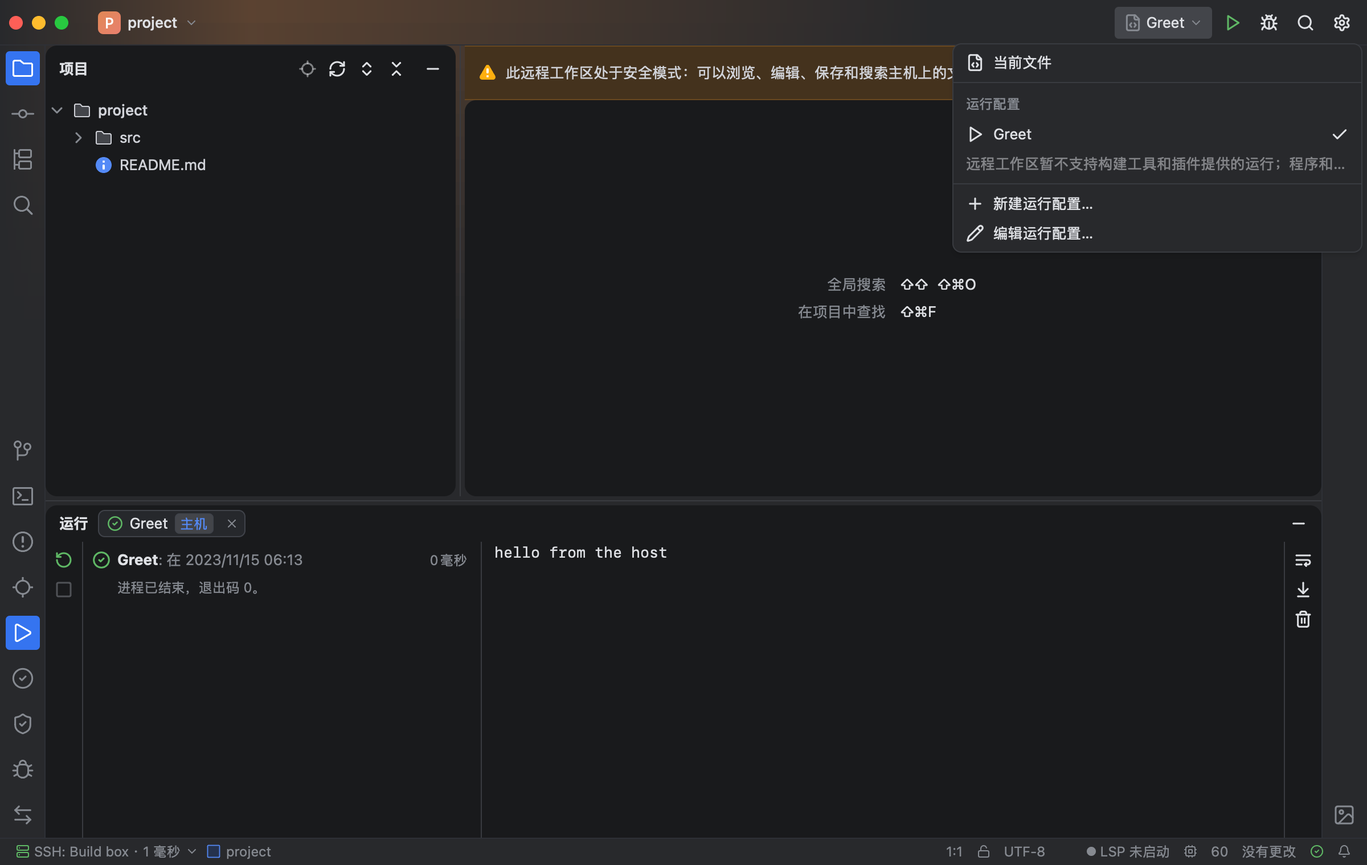
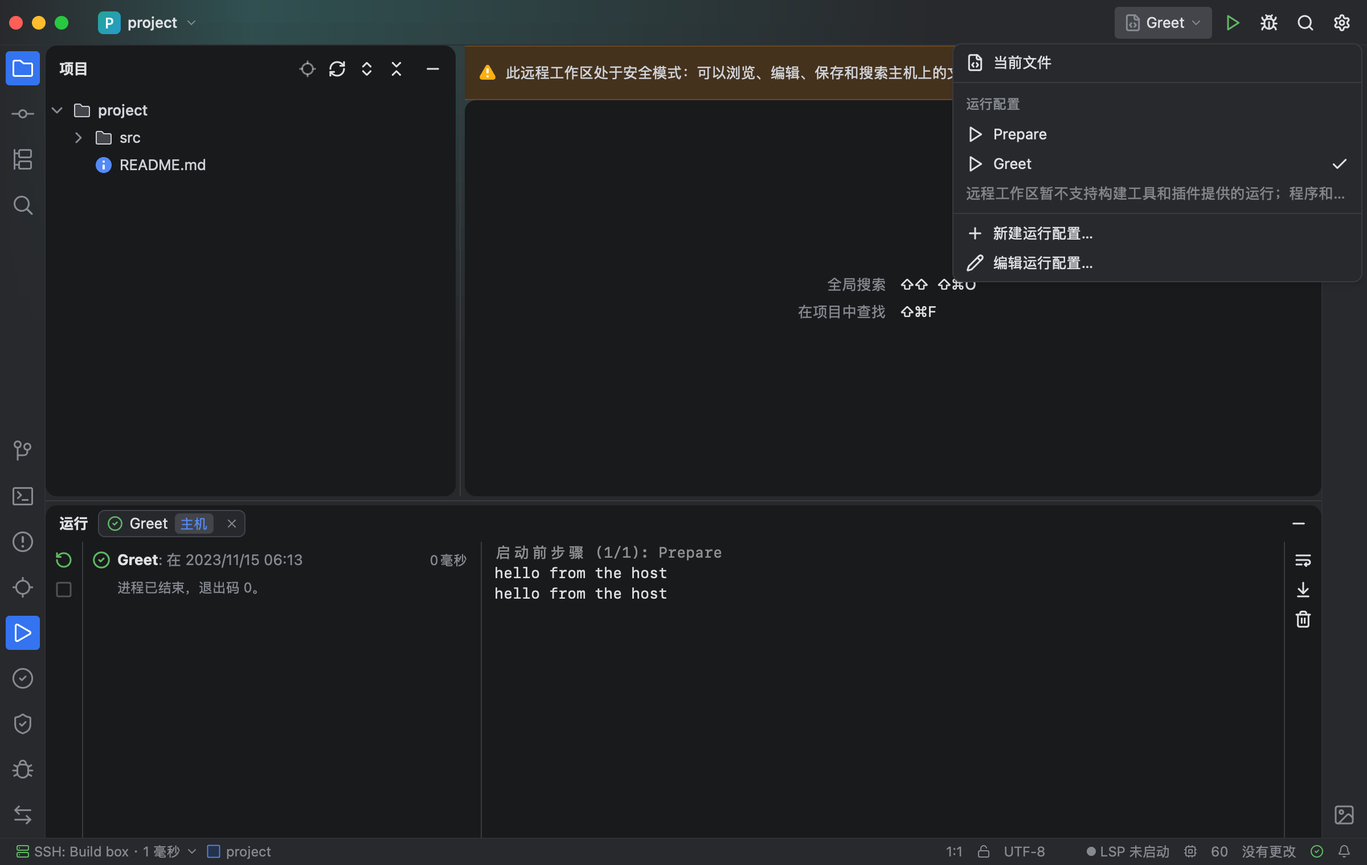
feat(desktop): 远程工作区在主机上依次运行执行前列表里的内置运行配置 (#2231)
执行前列表里引用的程序或脚本运行配置在主机上按顺序先运行，输出和步骤标题进同一个控制台；
步骤非零退出时说明步骤名和退出码，配置不启动；停止或超出准备时间先给步骤的主机进程发 SIGTERM。
只有列表里有插件任务时才说明暂不支持（R3）。

Changed region(s): [[0.6875, 0.1546, 0.9688, 0.3092], [0.0625, 0.0, 0.4062, 0.0928], [0.3438, 0.6184, 0.5312, 0.7112]]

diff --git a/desktop/internal/workbench/remote_run_test.go b/desktop/internal/workbench/remote_run_test.go
@@ -327,14 +327,17 @@ func TestRemoteWorkspaceRunEndsAsTheHostProcessEnds(t *testing.T) {
 }
 
 // A remote workspace refuses, with its reason, what it cannot run on the host yet: a
-// configuration with before-launch steps, a debug session and a program chosen through a
-// toolchain. None of them starts a host process.
+// configuration whose before-launch list names a plugin's task, a debug session and a program
+// chosen through a toolchain. None of them starts a host process.
 func TestRemoteWorkspaceRefusesRunsItCannotStartOnTheHost(t *testing.T) {
 	h, k, p, _ := openRemoteRunProject(t)
 	lang := h.app.language()
 
 	k.setRuns(func(r *remoteHostRuns) {
-		r.steps = []core.RunBeforeLaunchItem{{Name: "build"}}
+		r.steps = []core.RunBeforeLaunchItem{
+			{ConfigurationID: remoteTestRunConfiguration.ID, Name: "Prepare"},
+			{Task: &core.RunTaskReference{RunTypeKey: core.RunTypeKey{PluginID: "dev.example.build", BuildSystemID: "example", Type: "compile"}}, Name: "Compile"},
+		}
 	})
 	h.startRemoteRun(p, remoteTestRunConfiguration.ID)
 	refused := h.awaitRemoteRun(p, remoteTestRunConfiguration.Name, nil)
@@ -364,6 +367,85 @@ func TestRemoteWorkspaceRefusesRunsItCannotStartOnTheHost(t *testing.T) {
 	}
 	if opens, _, _, _, _ := k.hostRuns(); len(opens) != 0 {
 		t.Fatalf("the host started %d processes", len(opens))
+	}
+}
+
+// A remote workspace runs the before-launch steps that start another built-in run on its host,
+// in order and over the workspace's session, with their output and headers in the console of the
+// configuration that starts, which starts once every step exited with 0. Each step's temporary
+// folder is removed before the next starts. A step that exits with a code ends the start with
+// it, and stopping the start while a step runs asks the step's host process to end first.
+func TestRemoteWorkspaceRunsBeforeLaunchStepsOnTheHost(t *testing.T) {
+	previous := buildprocess.StopGrace()
+	t.Cleanup(func() { buildprocess.SetStopGrace(previous) })
+	// The window sets the stop time from the setting when it opens; the harness never opens one.
+	buildprocess.SetStopGrace(8 * time.Second)
+	h, k, p, logger := openRemoteRunProject(t)
+	lang := h.app.language()
+	k.setRuns(func(r *remoteHostRuns) {
+		r.steps = []core.RunBeforeLaunchItem{{ConfigurationID: remoteTestRunConfiguration.ID, Name: "Prepare"}}
+	})
+	h.startRemoteRun(p, remoteTestRunConfiguration.ID)
+	run := h.awaitRemoteRun(p, remoteTestRunConfiguration.Name, nil)
+	header := i18n.SharedFormat(lang, "desktop.runConfig.beforeLaunch.stepHeader", map[string]string{"index": "1", "count": "1", "name": "Prepare"})
+	console := run.output.all()
+	if run.outcome != runSucceeded || !strings.Contains(console, header) || strings.Count(console, "hello from the host") != 2 {
+		t.Fatalf("the run ended %v: %s; console:\n%s", run.outcome, run.summary, console)
+	}
+	opens, sessions, bases, removed, _ := k.hostRuns()
+	if len(opens) != 2 || opens[0].Label == nil || opens[0].Label.Name != "Prepare" || opens[1].Label == nil || opens[1].Label.Name != remoteTestRunConfiguration.Name {
+		t.Fatalf("the host started %d processes, want the step's and then the configuration's", len(opens))
+	}
+	for _, session := range sessions {
+		if session != p.remote.session {
+			t.Fatal("a process started over another session")
+		}
+	}
+	if len(bases) != 2 || len(removed) != 2 || opens[0].Cwd != remoteTestFolder+"/src" {
+		t.Fatalf("%d plans, %d temporary folders removed, step cwd matched %v", len(bases), len(removed), opens[0].Cwd == remoteTestFolder+"/src")
+	}
+
+	three := 3
+	k.setRuns(func(r *remoteHostRuns) { r.exit = core.RemoteProcessExit{ExitCode: &three} })
+	h.app.post(func(a *App) { p.closeRunSession(run.id) })
+	h.startRemoteRun(p, remoteTestRunConfiguration.ID)
+	failed := h.awaitRemoteRun(p, remoteTestRunConfiguration.Name, run)
+	exited := i18n.SharedFormat(lang, "desktop.runConfig.beforeLaunch.exited", map[string]string{"name": "Prepare", "code": "3"})
+	if failed.outcome == runSucceeded || !strings.Contains(failed.output.all(), exited) {
+		t.Fatalf("a step that exited with 3 ended the start %v; console:\n%s", failed.outcome, failed.output.all())
+	}
+	if opens, _, _, _, _ := k.hostRuns(); len(opens) != 3 {
+		t.Fatalf("the configuration started after its step failed: %d processes", len(opens))
+	}
+
+	ended := make(chan struct{})
+	k.setRuns(func(r *remoteHostRuns) { r.hold, r.signalled, r.ended = true, make(chan struct{}), ended })
+	h.app.post(func(a *App) { p.closeRunSession(failed.id) })
+	h.startRemoteRun(p, remoteTestRunConfiguration.ID)
+	h.await("the held step to start", func() bool {
+		opens, _, _, _, _ := k.hostRuns()
+		return len(opens) == 4
+	})
+	h.app.post(func(a *App) { a.stopOperation(p, p.build.runOf(configurationRunKey(remoteTestRunConfiguration.ID))) })
+	h.await("stopping the start to end the step's host process", func() bool {
+		select {
+		case <-ended:
+			return true
+		default:
+			return false
+		}
+	})
+	stopped := h.awaitRemoteRun(p, remoteTestRunConfiguration.Name, failed)
+	opens, _, _, removed, kills := k.hostRuns()
+	if len(kills) == 0 || kills[0] != "term" || len(opens) != 4 || len(removed) != 4 {
+		t.Fatalf("the stop sent %v; %d processes started, %d temporary folders removed", kills, len(opens), len(removed))
+	}
+	if stopped.outcome == runSucceeded {
+		t.Fatal("a stopped start ended as succeeded")
+	}
+	sessionKept(t, logger, p, p.remote.session)
+	if event := loggedAny(t, logger, remoteTestHost, remoteTestHome); event != "" {
+		t.Fatalf("logged the host or its paths: %s", event)
 	}
 }
 

diff --git a/desktop/internal/workbench/runconfig_before_launch.go b/desktop/internal/workbench/runconfig_before_launch.go
@@ -17,7 +17,6 @@ import (
 	"encoding/json"
 	"errors"
 	"fmt"
-	"os/exec"
 	"slices"
 
 	"github.com/1lck/Lithe-IDEA/desktop/internal/buildprocess"
@@ -73,9 +72,10 @@ func (a *App) runBeforeLaunch(p *project, op *buildOperation, id string, start f
 				start()
 				return
 			}
-			// A step runs a plugin's task or a process on this computer, which a remote
-			// workspace's files are not on.
-			if p.remote != nil {
+			// A remote workspace runs a step that starts another built-in run on its host. A
+			// plugin's task is planned by the plugin's backend on this computer, which reads no
+			// host files (#2231 §2, R3), so a list naming one does not start.
+			if p.remote != nil && slices.ContainsFunc(steps.Steps, func(step core.RunBeforeLaunchItem) bool { return step.Task != nil }) {
 				message := i18n.Shared(a.language(), "desktop.run.remote.beforeLaunch")
 				a.operationRejected("run_before_launch", "remote_workspace")
 				a.notifyError(message)
@@ -140,13 +140,14 @@ func (a *App) refuseBeforeLaunch(p *project, op *buildOperation, refusal *core.R
 // beforeLaunchRun is what the steps of one start take from the window thread: the project,
 // the kernel and language, the build messages and plugin directory a task's plan needs, and,
 // per step that runs a plugin's task, the detected instances of the build system that
-// declares it.
+// declares it. remote runs a remote workspace's steps on its host, nil for a local project.
 type beforeLaunchRun struct {
 	root, pluginRoot string
 	kernel           Kernel
 	language         i18n.Language
 	messages         i18n.BuildMessages
 	instances        [][]buildInstance
+	remote           *remoteRunHost
 }
 
 // runBeforeLaunchSteps starts each step in order off the window thread and waits for it;
@@ -165,7 +166,17 @@ func (a *App) runBeforeLaunchSteps(p *project, op *buildOperation, steps []core.
 			run.instances[index] = p.runTypeInstances(step.Task.RunTypeKey)
 		}
 	}
+	if p.remote != nil {
+		run.remote = &remoteRunHost{
+			kernel: a.kernel, binding: p.remote.binding, root: p.root, language: run.language,
+			output: func(text string) { a.streamBuildOutput(p, op, text) },
+			lost:   a.remoteSessionLost(p),
+		}
+	}
 	a.background(p, 0, func(ctx context.Context) func(*App) {
+		if run.remote != nil {
+			run.remote.failed = func(operation string, err error) { a.backgroundFailedIn(ctx, operation, remoteLogError(err)) }
+		}
 		for index, step := range steps {
 			header := i18n.SharedFormat(run.language, "desktop.runConfig.beforeLaunch.stepHeader", map[string]string{
 				"index": fmt.Sprint(index + 1), "count": fmt.Sprint(len(steps)), "name": step.Name,
@@ -196,6 +207,9 @@ func (a *App) runBeforeLaunchStep(ctx context.Context, p *project, op *buildOper
 	output := func(text string) { a.streamBuildOutput(p, op, text) }
 	if step.Task != nil {
 		return a.runBeforeLaunchTask(prepare, p, run, instances, step, output)
+	}
+	if run.remote != nil {
+		return run.remote.runStep(ctx, prepare, step)
 	}
 	process, cleanup, err := a.startConfiguredProcess(prepare, prepare, run.kernel, run.language, run.root, step.ConfigurationID, output)
 	defer cleanup()
@@ -242,7 +256,8 @@ func (a *App) failBeforeLaunch(p *project, op *buildOperation, step core.RunBefo
 		return
 	}
 	language := a.language()
-	var exit *exec.ExitError
+	// A local process ends with an *exec.ExitError, a host process with a remoteRunExit.
+	var exit interface{ ExitCode() int }
 	message := i18n.SharedFormat(language, "desktop.runConfig.beforeLaunch.failed", map[string]string{"name": step.Name, "reason": err.Error()})
 	if errors.As(err, &exit) {
 		message = i18n.SharedFormat(language, "desktop.runConfig.beforeLaunch.exited", map[string]string{"name": step.Name, "code": fmt.Sprint(exit.ExitCode())})

diff --git a/desktop/internal/workbench/remote_run_visual_test.go b/desktop/internal/workbench/remote_run_visual_test.go
@@ -17,8 +17,9 @@ import (
 )
 
 // TestVisualRemoteRun captures a built-in run configuration of a remote workspace that ran on the
-// host: the Run window's tab with the host badge and the host process's output, and the title
-// bar's run configuration menu, which says build tools do not run in a remote workspace yet.
+// host after its before-launch step, another built-in run, ran there: the Run window's tab with
+// the host badge, the step's header and both host processes' output, and the title bar's run
+// configuration menu, which says build tools do not run in a remote workspace yet.
 func TestVisualRemoteRun(t *testing.T) {
 	out := os.Getenv("LITHE_VISUAL_OUTPUT_DIR")
 	if out == "" {
@@ -41,7 +42,10 @@ func TestVisualRemoteRun(t *testing.T) {
 			// The folder was kept in safe mode before, so it opens without the trust question.
 			kernel.git.trust = map[string]string{remoteTestFolder: core.WorkspaceDistrusted}
 			zero := 0
-			kernel.runs.configurations = []core.RunConfiguration{remoteTestRunConfiguration}
+			// Greet starts once Prepare, another built-in run, ran before it on the host.
+			prepare := core.RunConfiguration{ID: "prepare", Name: "Prepare", Provider: runProviderShell}
+			kernel.runs.configurations = []core.RunConfiguration{prepare, remoteTestRunConfiguration}
+			kernel.runs.steps = []core.RunBeforeLaunchItem{{ConfigurationID: prepare.ID, Name: prepare.Name}}
 			kernel.runs.exit = core.RemoteProcessExit{ExitCode: &zero}
 			kernel.runs.plan = core.RunLaunchPlan{
 				Executable:       core.RunPlanExecutable{Command: "sh"},
@@ -91,14 +95,14 @@ func TestVisualRemoteRun(t *testing.T) {
 			p := h.openRemoteTestProject(t)
 			h.app.post(func(a *App) { a.loadBuildSystems(p) })
 			h.await("the remote workspace's run configurations", func() bool {
-				return p.runConfigs.generation > 0 && !p.runConfigs.loading && len(p.runConfigs.list) == 1
+				return p.runConfigs.generation > 0 && !p.runConfigs.loading && len(p.runConfigs.list) == 2
 			})
 			h.app.chooseTitleConfiguration(p, remoteTestRunConfiguration.ID)
 			h.app.openToolWindow(itemRun)
 			h.startRemoteRun(p, remoteTestRunConfiguration.ID)
 			run := h.awaitRemoteRun(p, remoteTestRunConfiguration.Name, nil)
-			h.await("the host process's output in the console", func() bool {
-				return strings.Contains(run.output.all(), "hello from the host")
+			h.await("the step's and the configuration's host output in the console", func() bool {
+				return strings.Count(run.output.all(), "hello from the host") == 2
 			})
 			// The pointer leaves the title bar, whose tooltip would cover the console.
 			if err := h.driver.Move(800, 300); err != nil {

diff --git a/desktop/internal/i18n/shared.generated.go b/desktop/internal/i18n/shared.generated.go
@@ -1989,7 +1989,7 @@ var sharedCatalogs = map[string]map[string]string{
 		"desktop.run.ports.openFailed":                             "Could not open {url}.",
 		"desktop.run.remote.badge":                                 "Host",
 		"desktop.run.remote.badgeHelp":                             "This program runs on the remote workspace's host.",
-		"desktop.run.remote.beforeLaunch":                          "a remote workspace does not run before-launch steps yet; remove them from the configuration to run it on the host",
+		"desktop.run.remote.beforeLaunch":                          "a remote workspace does not run plugin tasks before launch yet; remove them from the Before launch list to run the configuration on the host",
 		"desktop.run.remote.buildTools":                            "Build tools and plugin runs do not work in a remote workspace yet; program and script configurations run on the host.",
 		"desktop.run.remote.connectionLost":                        "the connection to the host broke while the program ran; whether it still runs on the host is unknown",
 		"desktop.run.remote.notConnected":                          "the remote workspace is not connected; run it again once it reconnects",
@@ -5744,7 +5744,7 @@ var sharedCatalogs = map[string]map[string]string{
 		"desktop.run.ports.openFailed":                             "无法打开 {url}。",
 		"desktop.run.remote.badge":                                 "主机",
 		"desktop.run.remote.badgeHelp":                             "此程序运行在远程工作区的主机上。",
-		"desktop.run.remote.beforeLaunch":                          "远程工作区暂不支持启动前步骤，请从配置中删除这些步骤后再在主机上运行",
+		"desktop.run.remote.beforeLaunch":                          "远程工作区暂不支持插件提供的执行前任务，请从“执行前”列表中删除这些任务后再在主机上运行",
 		"desktop.run.remote.buildTools":                            "远程工作区暂不支持构建工具和插件提供的运行；程序和脚本运行配置会在主机上运行。",
 		"desktop.run.remote.connectionLost":                        "程序运行时与主机的连接断开了，无法确定它是否仍在主机上运行",
 		"desktop.run.remote.notConnected":                          "远程工作区未连接，请在重新连接后再运行",

diff --git a/desktop/internal/workbench/remote_run.go b/desktop/internal/workbench/remote_run.go
@@ -66,6 +66,35 @@ func (a *App) launchRemoteProcessRun(p *project, op *buildOperation, id string) 
 	})
 }
 
+// runStep runs a before-launch step that starts built-in run configuration step.ConfigurationID
+// on the host and waits for it, with its output in the console of the configuration that starts.
+// prepare bounds the step like a local one: once it ends, through a stop or the preparation
+// time, the step's processes are asked to end and killed after the stop time, as a local step's
+// process tree is. The step's temporary folder is removed after ctx ended too.
+func (h remoteRunHost) runStep(ctx, prepare context.Context, step core.RunBeforeLaunchItem) error {
+	h.label = core.NewRemoteResourceLabel("run", step.Name)
+	start, err := h.prepare(prepare, step.ConfigurationID)
+	defer h.cleanup(ctx, start)
+	if err != nil {
+		return err
+	}
+	request, cancel := context.WithCancel(context.WithoutCancel(prepare))
+	defer cancel()
+	var attached atomic.Pointer[remoteProcess]
+	defer context.AfterFunc(prepare, func() {
+		if process := attached.Load(); process != nil {
+			process.Stop()
+			return
+		}
+		cancel()
+	})()
+	if err := h.run(request, start, func(process *remoteProcess) { attached.Store(process) }); err != nil {
+		return err
+	}
+	// A step that exited cleanly once asked to end was still stopped or ran out of time.
+	return prepare.Err()
+}
+
 // remoteRunHost is what one run of a remote workspace takes from the window thread.
 type remoteRunHost struct {
 	kernel   Kernel

diff --git a/.agents/notes/implemented/architecture/2026-11-22-remote-workspace-process-runs.md b/.agents/notes/implemented/architecture/2026-11-22-remote-workspace-process-runs.md
@@ -1,12 +1,12 @@
-# Agent 笔记：远程工作区在主机上运行内置的程序和脚本运行配置
+# Agent 笔记：远程工作区在主机上运行内置的程序和脚本运行配置及其执行前步骤
 
 状态：已实现
 
 ## 先说结论
 
-本笔记是 #2231 R1 的第一步（#43a）。远程工作区里，运行配置的读写、校验和启动计划由 Core 路由到主机（Core #161）：配置文件经 `lithe_workspace::fs` 存在主机的项目目录，计划按主机平台（Linux、macOS）生成，从不生成批处理或 PowerShell。桌面端拿到计划后，用 `remote.runProcess` 在主机上启动内置的程序和脚本运行（`process.*`），输出进 Run 窗口，标签页带“主机”徽标。
+本笔记覆盖 #2231 R1 的 #43a 和 #43b。远程工作区里，运行配置的读写、校验和启动计划由 Core 路由到主机（Core #161）：配置文件经 `lithe_workspace::fs` 存在主机的项目目录，计划按主机平台（Linux、macOS）生成，从不生成批处理或 PowerShell。桌面端拿到计划后，用 `remote.runProcess` 在主机上启动内置的程序和脚本运行（`process.*`），输出进 Run 窗口，标签页带“主机”徽标。
 
-构建工具、插件提供的运行、调试和启动前步骤暂不在远程工作区运行，各自说明原因（`desktop.run.remote.*`），留给 #43b。
+配置“执行前”列表里引用的其他内置运行配置（#43b）同样在主机上按顺序运行，输出进同一个控制台。插件提供的执行前任务、构建工具、插件提供的运行和调试要由本机插件后端计划主机上的进程，属于 #2231 的 R3/R4，本阶段不做，各自说明原因（`desktop.run.remote.*`）。
 
 ## 问题
 
@@ -23,7 +23,7 @@
 
 `loadBuildSystems` 在远程工作区不探测构建系统：本机占位目录里没有项目，探测只会得到空结果。它把 `p.build.failed` 设成 `desktop.run.remote.buildTools`，运行配置菜单把这句话显示为不可点的说明；非空的 `failed` 也让生成层快照保持为空，所以不会往主机写生成层。
 
-带启动前步骤的配置拒绝启动（`desktop.run.remote.beforeLaunch`）：步骤会运行插件任务或本机进程，而项目文件不在本机。需要通过工具链选择程序的计划（`executable.toolchain`）也拒绝（`desktop.run.remote.toolchain`），因为工具链解析读的是本机。
+“执行前”列表里有插件任务的配置拒绝启动（`desktop.run.remote.beforeLaunch`）：任务由插件后端在本机计划，读不到主机上的项目文件（#2231 §2，R3）。只引用内置运行配置的列表照常运行，见下文。需要通过工具链选择程序的计划（`executable.toolchain`）也拒绝（`desktop.run.remote.toolchain`），因为工具链解析读的是本机。
 
 ### 进程的启动、输出和结束
 
@@ -36,6 +36,14 @@
 5. 进程以非零退出码结束时运行失败，被信号结束时说明信号编号；连接断开时说明“无法确定是否仍在主机上运行”，并交给窗口重新连接（断线后接回输出是 #43c）。
 
 主机上的进程 id 不是本机的，`Pid()` 返回 0，所以 Run 窗口不采样它的端口、CPU 和内存。主机端口由端口工具窗口列出。
+
+### 执行前步骤（#43b）
+
+Core 只允许“执行前”列表引用内置进程运行（`process.*`），所以配置步骤在远程工作区一定能在主机上运行。`runBeforeLaunchSteps` 在远程工作区为这次启动建一个 `remoteRunHost`，每个配置步骤经 `remoteRunHost.runStep` 运行：与主运行一样在主机临时目录规划并写脚本、用 `remote.runProcess` 启动、输出经 `remoteRunOutput` 进同一个控制台，进程标签为步骤名；临时目录在下一步开始前删除。
+
+步骤与本机步骤一样受准备时间（`runPreparationTimeout`）限制。请求本身不随准备上下文取消：准备上下文结束（“停止”或超时）时，先对已启动的进程调用 `remoteProcess.Stop`（SIGTERM，超过停止等待时间再取消请求），还没启动时直接取消请求。这样主机步骤的停止与本机 `buildprocess` 的先请求、后强杀一致。被要求结束后以 0 退出的步骤仍按停止或超时处理，不会接着启动配置。
+
+`failBeforeLaunch` 按 `ExitCode() int` 读退出码，本机的 `*exec.ExitError` 和主机的 `remoteRunExit` 都能说明“以退出码 N 结束”。确认询问（按指纹记住）与本机共用，主机步骤不另加询问。
 
 ### 输出里的路径
 
@@ -50,20 +58,23 @@
 - **在本机用 ssh 直接起进程**：绕过 Core 的会话、认证和 S26 环境白名单，也拿不到 Core 的进程组管理和事件缓冲。
 - **把脚本写到主机的项目目录**：会弄脏用户的工作区，可能被 Git 看到或被提交。
 - **远程工作区也探测构建系统**：探测在本机占位目录里运行，结果永远为空，还会误导用户以为项目没有构建工具。
+- **远程工作区拒绝所有执行前步骤**（#43a 的做法）：配置步骤只是另一个内置运行，主机已经能运行它；一起拒绝会让常见的“先编译再运行”脚本链用不了。
+- **把主机步骤的请求直接挂在准备上下文上**：停止时 Core 立即强杀，主机程序没有机会清理，与本机步骤的停止行为不一致。
 
 ## 后果
 
 - 远程工作区里能直接运行项目自带的程序和脚本配置，输出、停止和退出码与本机一致；Run 窗口的“主机”徽标说明它在哪里运行。
-- 构建工具、插件运行、调试、启动前步骤和“当前文件”暂时不可用，各自给出说明，直到 #43b 把它们接到主机。
+- “执行前”列表里的内置运行配置在主机上按顺序运行，失败、停止和超时与本机一致。
+- 插件提供的执行前任务、构建工具、插件运行、调试和“当前文件”暂时不可用，各自给出说明；它们依赖 #2231 的 R3（插件按主机路径计划进程）和 R4（远程调试），本阶段不做。
 - 断线时运行结束为“无法确定是否仍在主机上运行”，主机上的进程可能还在；断线后接回输出由 #43c 负责。
 - 主机临时目录里可能残留断线或崩溃时没删掉的 `lithe-run-script-*` 目录，由主机的临时目录清理回收。
 
 ## 验证
 
-- `desktop/internal/workbench/remote_run_test.go`：主机上的启动参数、工作目录、环境、脚本写入和删除；退出码和信号；“停止”先发 SIGTERM；启动前步骤、工具链和调试的拒绝；输出缓冲丢弃最旧部分；输出链接的主机文件查找；不记主机和路径。
+- `desktop/internal/workbench/remote_run_test.go`：主机上的启动参数、工作目录、环境、脚本写入和删除；退出码和信号；“停止”先发 SIGTERM；执行前的配置步骤在主机上依次运行、失败时不启动配置、停止时先发 SIGTERM；插件任务步骤、工具链和调试的拒绝；输出缓冲丢弃最旧部分；输出链接的主机文件查找；不记主机和路径。
 - `desktop/internal/core/remote_process_test.go`：`remote.runProcess` 事件的解析。
 - `scripts/desktop/verify/verify-runtime-bundle-immutability.sh`：运行时不写发行目录。
 
 ## 适用范围
 
-适用于远程工作区（`project.remote` 非空）里运行配置的读取、启动、停止、输出和输出链接。本机工作区的运行流程不受影响；构建工具、插件运行、调试和启动前步骤在主机上的执行以 #43b 的笔记为准。
+适用于远程工作区（`project.remote` 非空）里运行配置的读取、启动、停止、输出和输出链接。本机工作区的运行流程不受影响；插件任务步骤、构建工具、插件运行和调试在主机上的执行以 #2231 R3/R4 的笔记为准。

diff --git a/docs/assets/remote-run/README.md b/docs/assets/remote-run/README.md
@@ -1,8 +1,9 @@
-# 远程工作区在主机上运行（#2231 R1，#43a）无头测试截图
+# 远程工作区在主机上运行（#2231 R1，#43a、#43b）无头测试截图
 
 来自生产 Viva Page 的无头渲染。连接、主机和运行配置都由测试替身提供，不连接真实主机、不启动真实进程。截图覆盖深色中文和浅色英文界面，用于确认：
 
 - 远程工作区里内置的运行配置在主机上运行后，Run 窗口的标签页带“主机”徽标，控制台显示主机进程的输出和退出码；
+- “执行前”列表里的另一个内置运行配置（Prepare）先在主机上运行，控制台先显示步骤标题和它的输出，再显示配置本身的输出；
 - 标题栏的运行配置菜单列出内置配置，并用一行不可点的说明告诉用户构建工具和插件运行暂不在远程工作区里工作。
 
 截图不代表 macOS/Windows 原生窗口验收。
